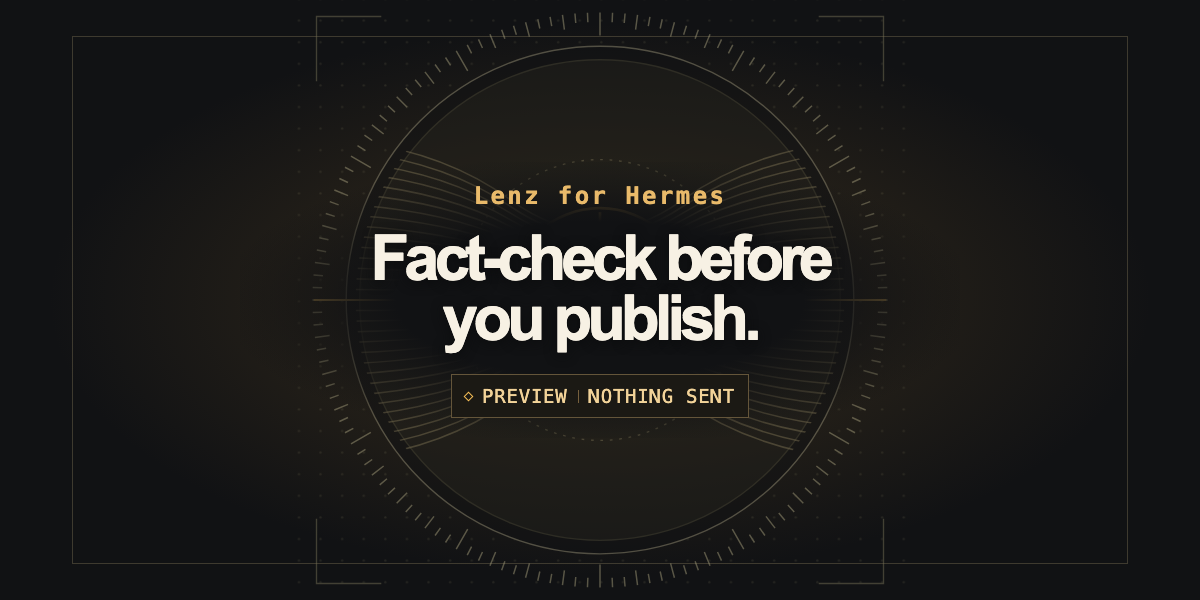
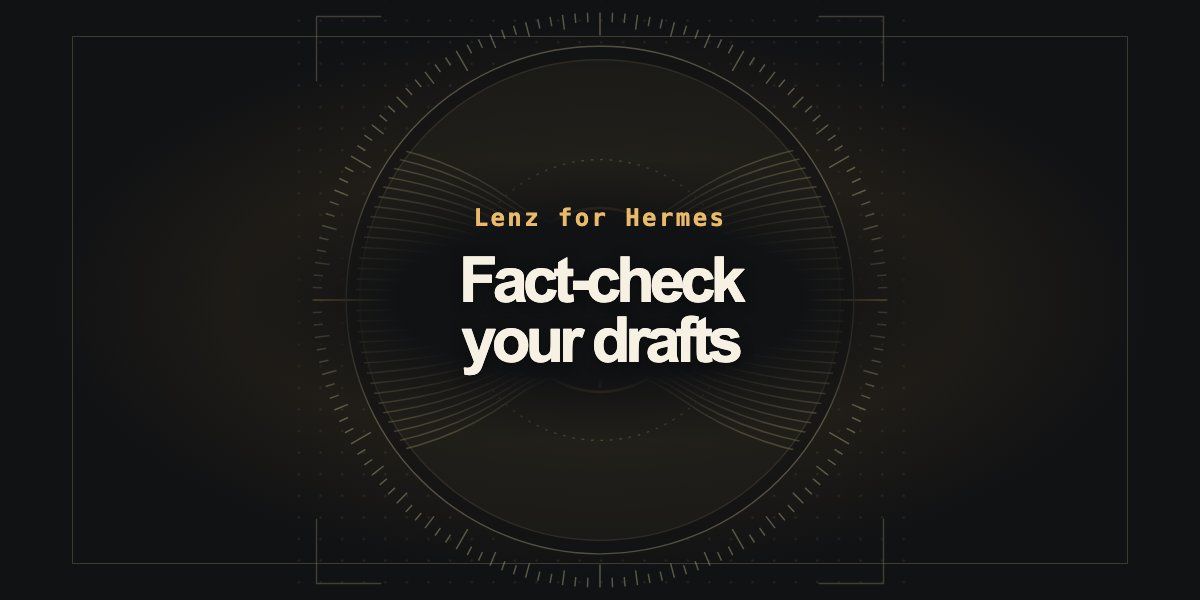
docs: show what Lenz actually checks

Changed region(s): [[0.3083, 0.3, 0.7092, 0.69]]

diff --git a/README.md b/README.md
@@ -1,6 +1,6 @@
 # Lenz for Hermes
 
-**Fact-check the claims you’re about to publish.** Get a quick read on dates, figures, and assertions, or ask Lenz to investigate a disputed claim against sources. Hermes shows you the maximum credit cost before sending the selected material.
+Hand Hermes a draft and ask it to flag the numbers, dates, and quotes that need checking. Use Lenz to check a few claims, investigate a disputed one, or review the draft and its citations. You see the most a check can cost before you decide what to send.
 
 ![Lenz for Hermes with an installed tool preview showing one credit maximum and nothing sent](docs/media/readme-hero.png)
 
@@ -31,18 +31,18 @@ Read the custom-source trust prompt. To pin a revision, add `--ref` followed by 
 
 ![Hermes Desktop’s Lenz settings: an empty masked key field and a check-depth selector](docs/media/desktop-settings.png)
 
-## Pick the smallest check that answers your question
+## What you can check
 
 | Ask Hermes | Maximum | What you get |
 | --- | ---: | --- |
-| “Extract the checkable claims from this paragraph.” | 0 credits | A list of claims, not verdicts. Daily limits apply. |
-| “Quick-check these figures.” | 1 per claim | An initial verdict and confidence. Searched pages are not verified citations. |
-| “Investigate this disputed claim against sources.” | 6 at low depth or 11 at standard | One assessment plus at most one deep check. |
-| “Review this draft and its citations.” | 32 in Normal mode | A bounded review with assessments, conditional deeper checks, and citation checks. |
+| “Which statements in this paragraph can I fact-check?” | 0 credits | A list of claims. Daily limits apply. |
+| “Check the dates and dollar amounts in this draft.” | 1 per claim | A first verdict and confidence rating. A page found in search isn't a verified citation. |
+| “Does the original study back up this claim?” | 6 at low depth or 11 at standard | An initial assessment and, when needed, one deeper check. |
+| “Review this draft and flag citations that don’t support the claims.” | 32 in Normal mode | Claim checks, deeper checks where warranted, and citation checks. |
 
-For any submission, review the selected text or URL, destination, and maximum, then tell Hermes whether to send it. Previews expire after 15 minutes. A changed request needs a new preview. The plugin matches the request to the preview and amount; agreement happens in chat, not through a separate approval dialog.
+Check the text or URL Hermes plans to send to Lenz and the maximum cost, then say in chat whether to go ahead. If you change the request or wait more than 15 minutes, ask for a new preview. The plugin checks that the request and amount match the preview.
 
-For a queued review, ask Hermes to check the same job later rather than submit it again. Read the sources and any failed or omitted rows. No public record is not proof a claim is false.
+If a review is still running, ask Hermes to check its status instead of submitting it again. Read the sources and look for claims the review skipped or couldn't check. If Lenz finds no public record, that doesn't prove the claim is false.
 
 ### Draft limits
 
@@ -60,7 +60,7 @@ Choose **Check depth and draft limits** in Lenz’s plugin settings. The maximum
 
 Lenz for Hermes caps **reservations in this profile** at 500 credits per Lenz reset period. It does not grant credits or change your plan. Before sending content, the plugin checks the connected account’s balance, reset date, and prices. A lower balance can tighten the cap for the rest of that period. The cap does not cover spending on the Lenz website, through MCP, or in other profiles.
 
-For example, if 500 credits are available, a conservative allocation is **300 quick claims + 5 Normal draft reviews + 4 Moderate draft reviews** across the period. That is an allocation at maximum cost, not a guarantee of completed checks. With 100 credits available, one Normal review leaves up to 68 for quick checks in that allocation. Check your own allowance with `lenz_usage` or see [Lenz plans](https://lenz.io/plans). Hermes model usage is separate.
+With 500 credits available, you could budget for **300 quick claim checks, five Normal draft reviews, and four Moderate draft reviews** at their maximum costs. With 100 credits, set aside 32 for one Normal review and up to 68 for quick checks. Ask Hermes for your Lenz balance or see [Lenz plans](https://lenz.io/plans). Hermes model usage is separate.
 
 The full quoted maximum remains reserved on an ambiguous submission, even if no bill has arrived. Check Lenz activity before starting another request. The ledger survives restarts and reinstallations in the same profile. It opens a new period only after the old reset passes and Lenz reports a later reset.
 
